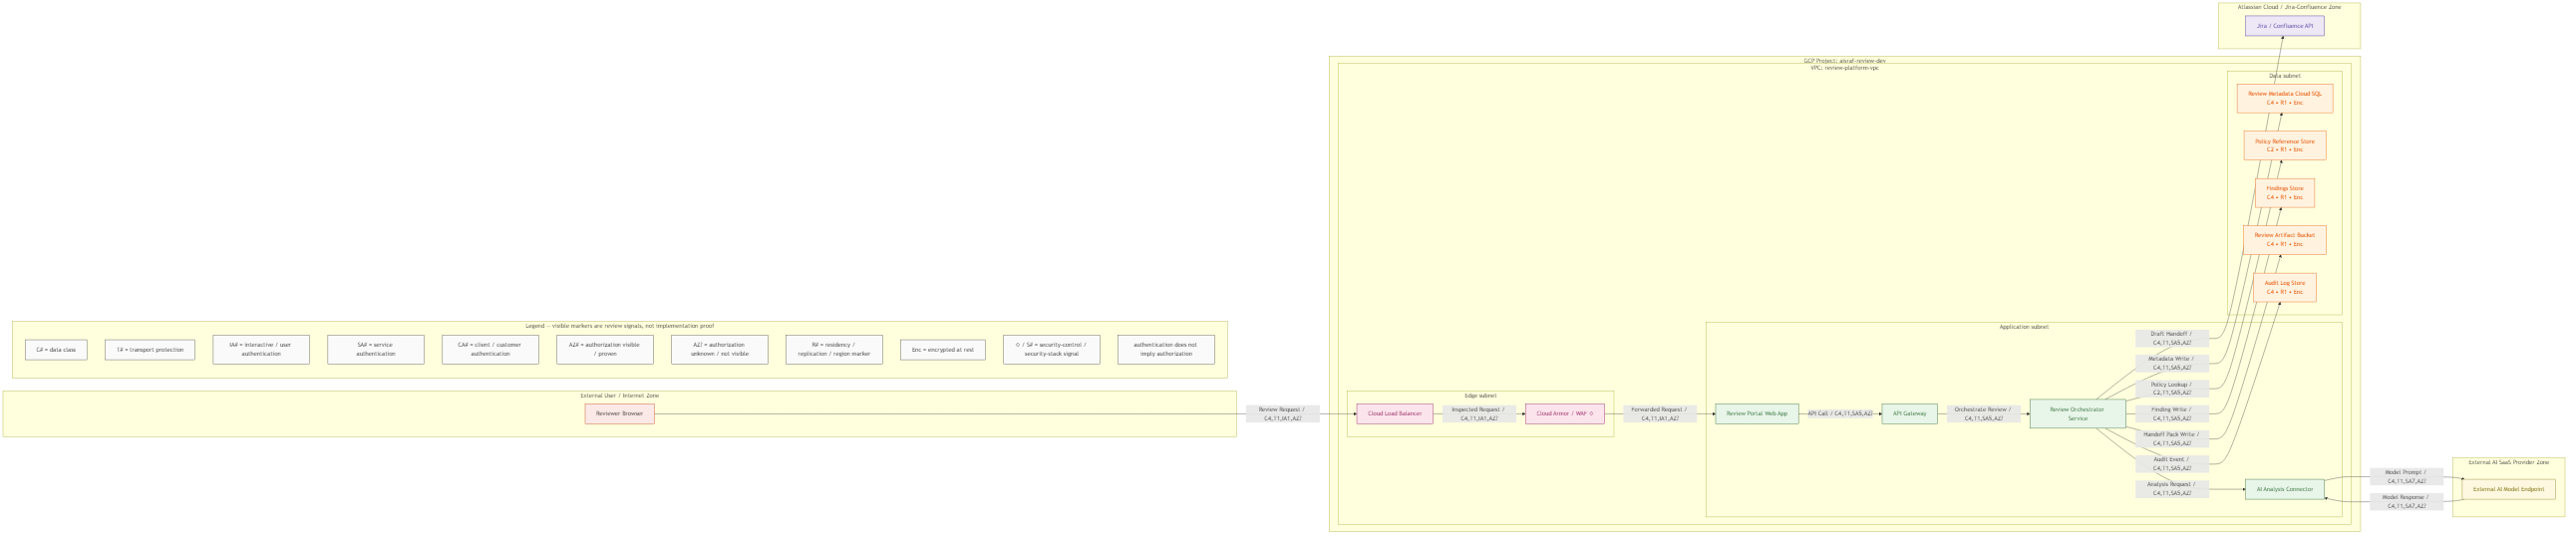
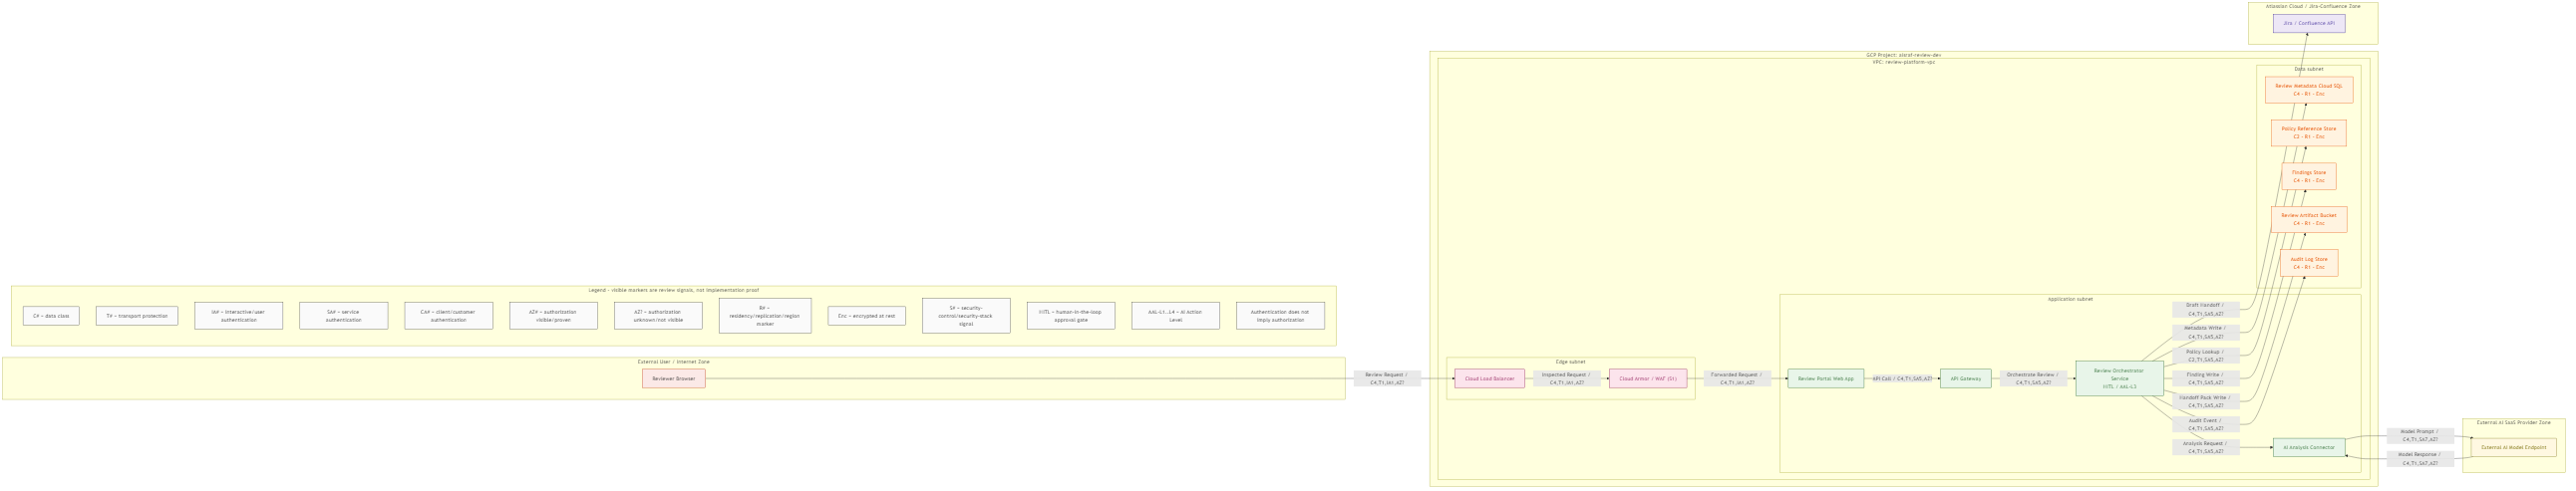
fix(package-11a): refresh run fixture inputs from corrected sample DFD

diff --git a/samples/sample-001-dfd-crop/inputs/dfd-legend-excerpt.md b/samples/sample-001-dfd-crop/inputs/dfd-legend-excerpt.md
@@ -1,56 +1,26 @@
-# DFD Legend Excerpt — sample-001-dfd-crop
+# DFD Legend Excerpt
 
-This is a synthetic legend excerpt for AISRAF SAS Prototype v0.1.2 (Build Package 10A corrective patch — GCP-style architecture review DFD). No real PII, PAN, SSN, PHI, secrets, credentials, or production endpoints are described or implied.
+This sample DFD uses the standard review grammar:
 
-> **Build Package 10A note.** This sample DFD adopts the **default flow-tuple standard** for AISRAF cloud-architecture review samples:
->
-> - **Flow-label grammar** (4 tokens, comma-separated): `<flow name> / <C#>,<T#>,<IA#|SA#|CA#>,<AZ#|AZ?>`
-> - **Data-store grammar** (3 tokens, separated by `•`): `<store name> / <C#> • <R#> • <Enc|Tok|Mask|Clr|Unknown>`
-> - **Authorization is explicit on every material flow.** Where authorization is not visibly proven, the visible token is `AZ?` (resolves to `<value-from-catalogs/identity-access/authorization-catalog.yaml#AZ-UNKNOWN>`). Authentication never implies authorization.
-> - **A compact legend panel is embedded inside the rendered DFD** (`subgraph LEGEND`). This document is the supporting reference for that embedded legend.
-> - Extraction IDs (`CMP-NN`, `BND-NN`, `F#`, `BC-NN`) live only in expected baselines and analyst-extraction tables.
+- Flow-label grammar: `<flow name> / <C#>,<T#>,<IA#|SA#|CA#>,<AZ#|AZ?>`
+- Data-store grammar: `<class> • <R#> • <Enc|Tok|Mask|Clr|Unknown>`
 
-## 1. Visible Tokens On The Sample DFD
+## Marker meanings
 
-| token | where_visible | normalize_via |
-|---|---|---|
-| `IA1` | F1 (Reviewer Browser → Cloud Load Balancer); F2 (Cloud LB → Cloud Armor / WAF); F3 (Cloud Armor / WAF → Review Portal Web App) | `catalogs/identity-access/authentication-catalog.yaml#AU-INTERNAL-AUTHENTICATION` |
-| `SA5` | F4 / F5 / F6 / F7 / F8 / F11 / F12 / F13 / F14 (every internal service-to-service hop) | `catalogs/identity-access/authentication-catalog.yaml#AU-SERVICE-AUTHENTICATION` (raw_pattern `^SA[0-9]+[OS]?$`; sample-specific service-auth subtype) |
-| `SA7` | F9 / F10 (cross-internet to External AI Model Endpoint) | `catalogs/identity-access/authentication-catalog.yaml#AU-SERVICE-AUTHENTICATION` (raw_pattern `^SA[0-9]+[OS]?$`; sample-specific external-SaaS service-auth subtype) |
-| `AZ?` | every visible flow tuple's 4th position (all 14 flows) | `catalogs/identity-access/authorization-catalog.yaml#AZ-UNKNOWN` (explicit unknown sentinel; required by 4-token flow grammar when authorization is not visibly proven) |
-| `AZ#` | not visible in this sample | reserved for the `AZ-PRESENT` (`catalogs/identity-access/authorization-catalog.yaml#AZ-PRESENT`) and adjacent entries when explicit authorization is visibly proven on a flow |
-| `S1` (◇ diamond) | Cloud Armor / WAF visible diamond marker at the internet edge | `catalogs/security-stacks/security-stack-marker-catalog.yaml#SSM-STACK-DIAMOND` |
-| `T1` | every visible flow tuple's 2nd position (all 14 flows) | `catalogs/data-protection/transport-protection-catalog.yaml#TP-T-MARKER` |
-| `R1` | every Data subnet store visible label `<class> • R1 • Enc` | sample-specific raw token; resolves via this legend §3 with `CL-MEDIUM` confidence |
-| `Enc` | every Data subnet store visible label `<class> • R1 • Enc` | `catalogs/data-protection/at-rest-protection-catalog.yaml#AR-ENC-WORD` |
-| `Tok` / `Mask` / `Clr` / `Unknown` | not visible in this sample (alternative storage-state markers documented in the embedded legend for future stores) | reserved at-rest state vocabulary; sample-001 only exercises `Enc` |
-| `C2` | F7 (Policy Lookup); Policy Reference Store store label | `catalogs/data-protection/data-class-catalog.yaml#DC-C2` |
-| `C4` | every other flow tuple's 1st position; Review Metadata Cloud SQL, Findings Store, Review Artifact Bucket, Audit Log Store labels | `catalogs/data-protection/data-class-catalog.yaml#DC-C4` |
-| `formatted_only` (implicit) | Jira / Confluence API component label; F14 draft-handoff destination | `templates/jira/jira-ticket-draft-template.md`; `templates/confluence/confluence-page-draft-template.md` |
+- `C#` = data class
+- `T#` = transport protection
+- `IA#` = interactive / user authentication
+- `SA#` = service authentication
+- `CA#` = client / customer authentication
+- `AZ#` = authorization visibly present / proven
+- `AZ?` = authorization not visibly proven / unknown
+- `R#` = residency / replication / region marker
+- `Enc` = encrypted at rest
+- `◇ / S#` = security-control / security-stack signal
+- `[HITL]` = human-in-the-loop approval gate
+- `AAL-L1..L4` = AI Action Level scale
 
-## 2. Tokens Intentionally Absent
+## Rule reminder
 
-The sample does not include `C5`, `C5P`, `C5E1P`, `C5T1P`, `C5U1P`, `C5H1P`, `T2+`, `E2+`, `IA2+`, `CA#`, `GSA#`, `Tok`, `Mask`, `Clr`, mutual-TLS labels, or `AZ#` (authorization-present numbered subtype). This sample exercises C2/C4-band review-IP handling, transit/at-rest signal-vs-proof, AI-SaaS boundary crossing, HITL gating, the founder-specified 4-token flow-label grammar, and the explicit-authorization-or-AZ? rule — not C5 PCI/PAN scope.
-
-**Authorization is recorded on every visible flow as `AZ?`.** Per the founder-specified rule that authentication never implies authorization (`catalogs/identity-access/authentication-catalog.yaml#ER-AU-03`; `catalogs/identity-access/authorization-catalog.yaml#ER-AZ-03`), this sample's DFD does not visibly assert authorization on any flow; the explicit `AZ?` token resolves downstream to `AZ-UNKNOWN`. No `AZ#` token is invented. When a future sample DFD models visibly-proven authorization on a flow, the 4th-position token would be `AZ#` (numbered subtype optional) resolving to `AZ-PRESENT`.
-
-## 3. Reading Rules That Apply To This Sample
-
-- **Visible label is a review signal, not implementation proof.** `S1` does not prove an approved security stack at the Cloud Armor / WAF (`catalogs/security-stacks/proof-vs-signal-rule-catalog.yaml#SR-DIAMOND-NOT-APPROVED-STACK`; `#SR-MARKER-NOT-PROOF`). The embedded legend panel inside the DFD restates this rule explicitly.
-- **Per-flow data class.** Each flow carries its own data class as the 1st token of the 4-token tuple; data class is never inherited from the diagram, the boundary, or an upstream flow (`catalogs/data-protection/data-class-catalog.yaml#ER-DC-02`).
-- **Per-flow transport protection.** Each flow carries its own transport marker as the 2nd token. Cross-internet flows (F9 / F10) carry `T1` as a transit signal; KMS / TLS configuration / cipher suite / mTLS posture remain unknown until separately confirmed.
-- **Per-flow authentication.** Each flow carries its own authentication marker as the 3rd token (`IA1` / `SA5` / `SA7`).
-- **Per-flow authorization (or explicit unknown).** Each flow carries `AZ#` (visibly proven) or `AZ?` (visibly unknown) as the 4th token. This sample asserts `AZ?` on all 14 flows — authorization is not visibly proven. **The 4th token is mandatory under the 4-token grammar; a 3-token flow tuple is non-compliant.**
-- **Component-level markers (e.g., `S1` at Cloud Armor / WAF) do not propagate to every connected flow** (`catalogs/components/component-evidence-rule-catalog.yaml#CER-COMPONENT-MARKER-IS-COMPONENT-SCOPE`).
-- **Storage-state vocabulary.** The visible tuple `<class> • R# • <state>` on every Data subnet store records data class + replication-region marker + at-rest state. The state vocabulary is `Enc` (encrypted at rest), `Tok` (tokenized), `Mask` (masked), `Clr` (cleartext), or `Unknown`. This sample exercises only `Enc`. `R#` is sample-specific (single-region/regional managed resource); the catalog primarily documents at-rest encryption (`AR-ENC-WORD`) and at-rest unknown (`AR-UNKNOWN`), so `R1` is recorded with `CL-MEDIUM` confidence as a sample-specific replication marker. `Enc` resolves to `AR-ENC-WORD`. KMS, key rotation, and key scope remain unknown until separately confirmed (drives MF-02).
-- **Cloud Armor / WAF placement.** The `S1 ◇` diamond at the internet edge is a security-stack signal (WAF / DDoS edge inspection visible); it does not prove approved-stack inventory, rule efficacy, blocking enforcement, or runtime configuration (`catalogs/security-stacks/proof-vs-signal-rule-catalog.yaml#SR-DIAMOND-NOT-APPROVED-STACK`; `#SR-GATEWAY-NOT-ENFORCEMENT`). Internal network policy / firewall, egress control / proxy / CASB, and VPC Service Controls are intentionally not modeled in this sample (they would be added as separate visible components when modeled).
-- **`formatted_only` semantics on the Jira / Confluence API destination.** F14 is a local draft handoff, not external post-back. Post-back requires `runs/{{run_id}}/run-profile.yaml#postback_execution_status: executed_by_operator` AND `output_destination_mode: external_postback_executed` AND a matching row appended to `{{output_root}}/00-run-log.md` per `templates/run/postback-log-entry-row-template.md`.
-- **GCP topology cues are visible context, not runtime proof.** `GCP Project: aisraf-review-dev`, `VPC: review-platform-vpc`, and the Edge / Application / Data subnets are review-time architecture context. They do not prove deployed runtime, deployed service accounts, configured firewall rules, encryption configuration, or IAM enforcement (`catalogs/security-stacks/proof-vs-signal-rule-catalog.yaml#SR-CLOUD-LABEL-NOT-RUNTIME`).
-
-## 4. Embedded Legend Panel (inside the DFD)
-
-The rendered DFD image (`dfd-crop.png`) contains a `subgraph LEGEND` panel listing the same vocabulary above. The embedded panel is the operator-facing legend; this Markdown excerpt is the supporting documentation for validation extraction. Both must agree.
-
-## 5. Source Reference
-
-Built for AISRAF SAS Prototype v0.1.2 sample-001-dfd-crop (Build Package 10A corrective patch — default GCP-style architecture review DFD standard with 4-token flow grammar and embedded legend). Conceptually informed by the v0.01 sample-001 legend pattern; not bit-copied. The legend semantics are anchored to v0.1.2 catalog paths only. Resolves `BP12-SAMPLE-DFD-BLOCKER` on the sample side; the byte-copy under `runs/RUN-001/inputs/dfd-legend-excerpt.md` is refreshed by Build Package 11A.
+Authentication does **not** imply authorization.
+If authorization is not visibly proven on a flow, use `AZ?`.

diff --git a/runs/RUN-001/inputs/dfd-legend-excerpt.md b/runs/RUN-001/inputs/dfd-legend-excerpt.md
@@ -1,36 +1,26 @@
-# DFD Legend Excerpt — sample-001-dfd-crop
+# DFD Legend Excerpt
 
-This is a synthetic legend excerpt for AISRAF SAS Prototype v0.1.2 Build Package 10. No real PII, PAN, SSN, PHI, secrets, credentials, or production endpoints are described or implied.
+This sample DFD uses the standard review grammar:
 
-## 1. Visible Tokens On The Sample DFD
+- Flow-label grammar: `<flow name> / <C#>,<T#>,<IA#|SA#|CA#>,<AZ#|AZ?>`
+- Data-store grammar: `<class> • <R#> • <Enc|Tok|Mask|Clr|Unknown>`
 
-| token | where_visible | normalize_via |
-|---|---|---|
-| `IA1` | CMP-01 Reviewer Browser; F1 (Reviewer Browser → Review Portal Web App) | `catalogs/identity-access/authentication-catalog.yaml` |
-| `SA1` | F2 (Review Portal Web App → Review API Gateway); F4 (Review API Gateway → AI Analysis Service); CMP-05 AI Analysis Service | `catalogs/identity-access/authentication-catalog.yaml` |
-| `S1` | CMP-03 Review API Gateway (security-stack diamond marker `◇`) | `catalogs/security-stacks/security-stack-marker-catalog.yaml` |
-| `T1` | F1 (HTTPS · IA1 · T1) | `catalogs/data-protection/transport-protection-catalog.yaml` |
-| `E1` | CMP-04 Review Metadata DB (E1 marker on the at-rest store); F3 destination side | `catalogs/data-protection/at-rest-protection-catalog.yaml` |
-| `C2` | F7 (Review API Gateway → Policy Reference Store); CMP-06 Policy Reference Store | `catalogs/data-protection/data-class-catalog.yaml` |
-| `C4` | F1 review request payload; F6 finding record write; CMP-07 Findings Store | `catalogs/data-protection/data-class-catalog.yaml` |
-| `C4P` | F3 (Review API Gateway → Review Metadata DB); CMP-04 Review Metadata DB | `catalogs/data-protection/data-class-catalog.yaml` |
-| `formatted_only` | F8 (Review API Gateway → Jira/Confluence Draft Formatter); CMP-08 | `templates/jira/jira-ticket-draft-template.md`; `templates/confluence/confluence-page-draft-template.md` |
-| `model call` | F4 verb token | `catalogs/interactions/interaction-type-catalog.yaml#IT-MODEL-CALL` |
-| `class unknown` | F4 request payload note; F5 response payload note | `catalogs/data-protection/data-class-catalog.yaml#DC-UNKNOWN` |
+## Marker meanings
 
-## 2. Tokens Intentionally Absent
+- `C#` = data class
+- `T#` = transport protection
+- `IA#` = interactive / user authentication
+- `SA#` = service authentication
+- `CA#` = client / customer authentication
+- `AZ#` = authorization visibly present / proven
+- `AZ?` = authorization not visibly proven / unknown
+- `R#` = residency / replication / region marker
+- `Enc` = encrypted at rest
+- `◇ / S#` = security-control / security-stack signal
+- `[HITL]` = human-in-the-loop approval gate
+- `AAL-L1..L4` = AI Action Level scale
 
-The sample does not include `C5`, `C5P`, `C5E1P`, `C5T1P`, `C5U1P`, `C5H1P`, `T2+`, `E2+`, mutual-TLS labels, `IA2+`, `SA2+`, or `CA#`. This sample exercises C4-band review-IP handling, transit/at-rest signal-vs-proof, AI-SaaS boundary crossing, and HITL gating — not C5 PCI/PAN scope.
+## Rule reminder
 
-## 3. Reading Rules That Apply To This Sample
-
-- A marker is a review signal, not implementation proof. `S1` does not prove an approved security stack at CMP-03; the global rule lives in `catalogs/security-stacks/proof-vs-signal-rule-catalog.yaml#SR-DIAMOND-NOT-APPROVED-STACK` and `#SR-MARKER-NOT-PROOF`.
-- One material flow gets exactly one data class. Conflicting indicators must be resolved or marked `unknown` (see `catalogs/data-protection/data-class-catalog.yaml#ER-DC-02`).
-- Component-level markers (`E1` at CMP-04, `S1` at CMP-03) do not propagate to every connected flow (`catalogs/components/component-evidence-rule-catalog.yaml#CER-COMPONENT-MARKER-IS-COMPONENT-SCOPE`).
-- Artifact-level class headers do not classify any flow (`catalogs/interactions/flow-evidence-rule-catalog.yaml#FER-ARTIFACT-CLASS-DOES-NOT-PROPAGATE`).
-- An external AI SaaS endpoint does not prove deployed runtime, IAM, or encryption behaviour (`catalogs/security-stacks/proof-vs-signal-rule-catalog.yaml#SR-CLOUD-LABEL-NOT-RUNTIME`).
-- `formatted_only` on F8 is not external post-back. Post-back requires `runs/{{run_id}}/run-profile.yaml#postback_execution_status: executed_by_operator` and a matching row appended to `{{output_root}}/00-run-log.md`.
-
-## 4. Source Reference
-
-Built for AISRAF SAS Prototype v0.1.2 sample-001-dfd-crop (Build Package 10 — AI SaaS Security Review Portal scenario). Conceptually informed by the v0.01 sample-001 legend pattern; not bit-copied. The legend semantics are anchored to v0.1.2 catalog paths only.
+Authentication does **not** imply authorization.
+If authorization is not visibly proven on a flow, use `AZ?`.